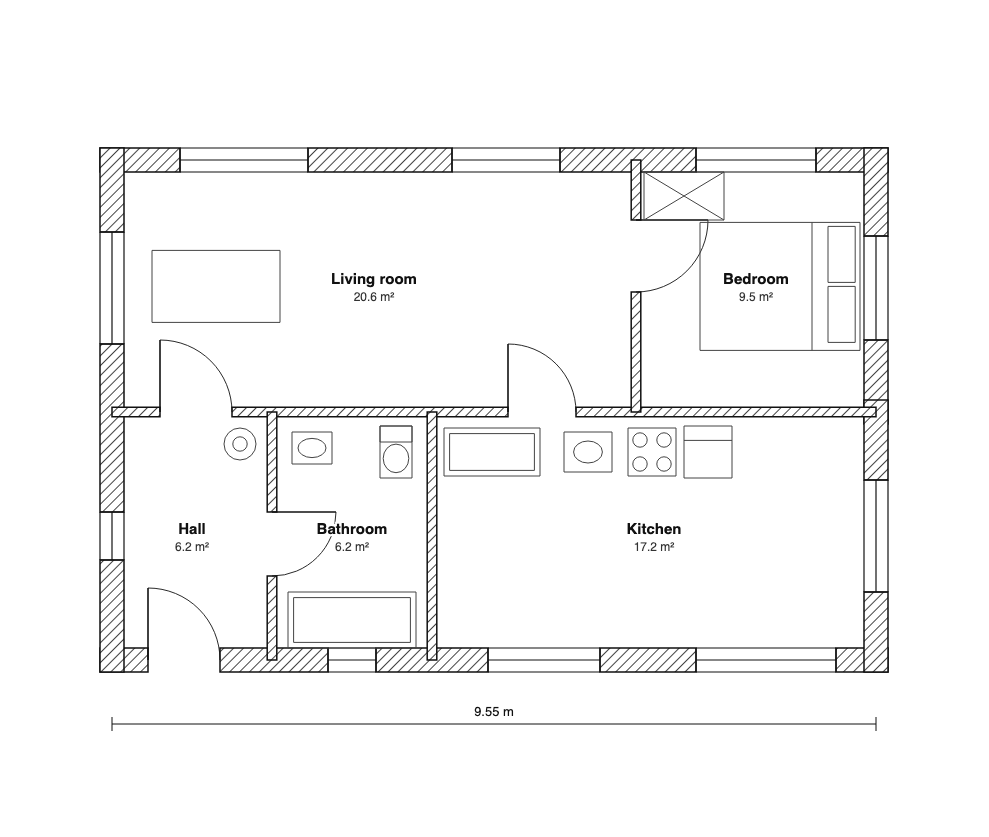
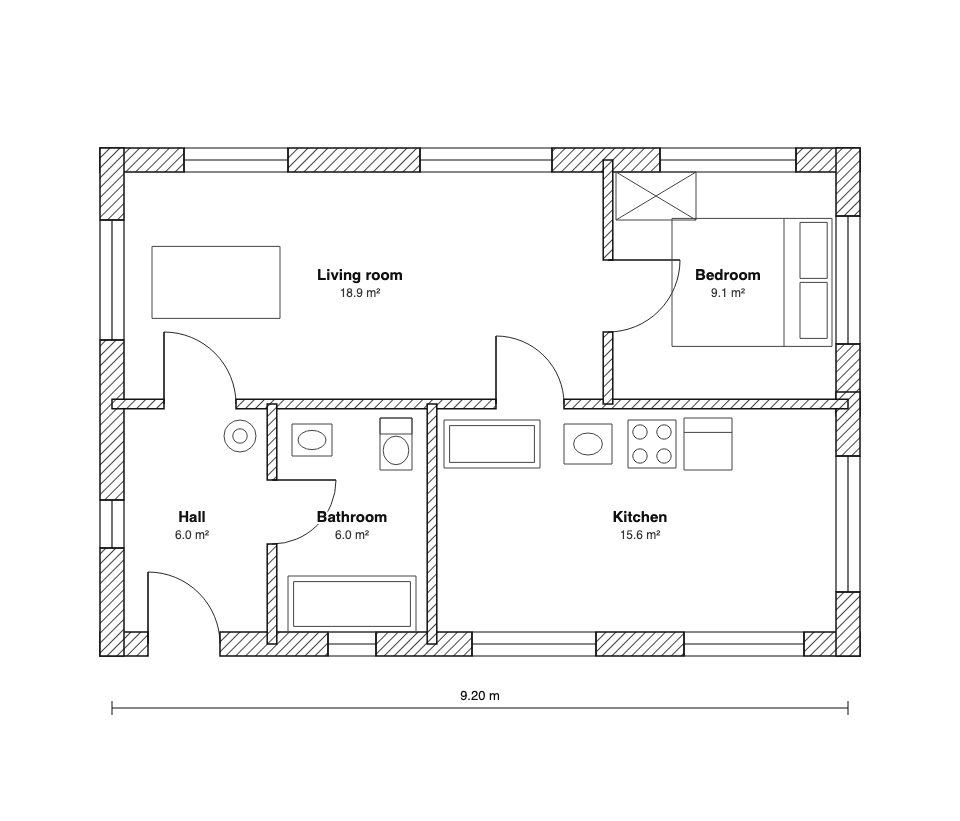
Replace sample-3 with a cleaner hatched drawing and give the first-visit card on a phone 12 px or more to spare in both languages

Changed region(s): [[0.0938, 0.1523, 0.9062, 0.8831], [0.625, 0.609, 0.6875, 0.6699], [0.3438, 0.3045, 0.4062, 0.3654]]

diff --git a/viewer/src/first-visit.js b/viewer/src/first-visit.js
@@ -17,7 +17,7 @@ export const STRINGS = {
     step1: 'Copy the prompt',
     step2: 'Give it to an AI chat together with a picture of your floor plan',
     step3: 'Paste the answer here',
-    samples: 'No floor plan at hand? Try a sample drawing:',
+    samples: 'No floor plan at hand? Try a sample:',
     sampleLink: 'Sample drawing {n}',
     copy: 'Copy prompt', copied: 'Copied', copyFailed: 'Could not copy',
     copiedNext: 'Copied. Now open an AI chat, add the picture of your floor plan and paste the prompt.',
@@ -33,7 +33,7 @@ export const STRINGS = {
     step1: 'Skopiuj polecenie dla AI (prompt)',
     step2: 'Otwórz czat z AI, który przyjmuje zdjęcia, dodaj zdjęcie rzutu (zwykle przyciskiem ze spinaczem albo plusem) i wklej polecenie',
     step3: 'Wróć tutaj i wklej odpowiedź AI (wystarczy cały tekst)',
-    samples: 'Nie masz rzutu pod ręką? Wypróbuj przykładowy rysunek:',
+    samples: 'Nie masz rzutu pod ręką? Przykłady:',
     sampleLink: 'Przykładowy rysunek {n}',
     copy: 'Kopiuj polecenie', copied: 'Skopiowano', copyFailed: 'Nie udało się skopiować',
     copiedNext: 'Skopiowano. Teraz otwórz czat z AI, dodaj zdjęcie rzutu i wklej polecenie.',

diff --git a/eval/results/2026-10-24-samples/README.md b/eval/results/2026-10-24-samples/README.md
@@ -9,11 +9,13 @@ against the generator's truth (the truth stays out of the repository; the seed r
 | --- | --- | --- | --- | --- | --- | ---: |
[4 lines of base64/hex data omitted]
 
-`scores.md` is the output of `eval/report.mjs`, `readings-samples/<code>.plan.json` are the extracted readings (the folder is not called `readings` because tests/eval/loads.test.mjs scores every `readings` folder against the benchmark of seeds 401 to 408).
+`scores.md` is the output of `eval/report.mjs` for the three shipped pictures, `readings-samples/<code>.plan.json` are the extracted readings (the folder is not called `readings` because tests/eval/loads.test.mjs scores every `readings` folder against the benchmark of seeds 401 to 408).
 
 ## How the pictures were made and chosen
+
+First round (sample-1, sample-2 and a first sample-3, seed 604):
 
 ```
 node eval/make-benchmark.mjs --seed 601 --count 6 --out <dir> --styles cad,hatched     (seeds 601 to 606)
@@ -23,12 +25,33 @@ node eval/make-benchmark.mjs --seed 607 --count 6 --out <dir> --styles cad,hatch
 The seeds are outside the ranges of the benchmark runs (401 to 412, 501 to 504). Eleven of the twelve pictures were looked at (seed 609,
 a two-level house, was not). Five were set aside before any reading because a label sits on a furniture outline or a door swing crosses
 furniture (seeds 602, 606, 608, 610, 612), and one (seed 611) because the swing of the bathroom door touches the label. Five were read:
-the three shipped ones and two that are not shipped, seed 603 (cad, studio) with 94.0 and seed 601 (cad, balcony) with 91.2 (in both the
-swing of the bathroom door touches the label). The three shipped ones are the ones that read best and look like different flats.
-So the three composites are the best of a small set. They show that the loop works on these pictures, not how a model reads a typical
-drawing; the measured numbers are in `docs/BENCHMARK.md`.
+sample-1 (seed 605), sample-2 (seed 607) and three that are not shipped, seed 604 (hatched, one-bedroom, 96.3), seed 603 (cad, studio) with
+94.0 and seed 601 (cad, balcony) with 91.2. In all three of these the swing of the bathroom door touches the label. Sample-1 and sample-2
+are the two that read best of those five.
 
-In sample-3.png the swing of the bathroom door touches the first letters of the label "Bathroom"; the reading is not affected.
+Second round (a cleaner sample-3, hatched walls, seeds from 613 on). Seed 604 was taken out because the swing of its bathroom door touches
+the label "Bathroom":
+
+```
+node eval/make-benchmark.mjs --seed 613 --count 8 --out <dir> --styles hatched          (seeds 613 to 620)
+node eval/make-benchmark.mjs --seed <s> --count 1 --out <dir> --styles hatched          (once for each s = 622, 624, 625, 631, 632, 638, 639, 646, 653, 660)
+```
+
+The family repeats every seventh seed in this range (613 three-bedroom, 614 l-shaped, 615 balcony, 616 two-level house, 617 studio,
+618 one-bedroom, 619 two-bedroom, 620 three-bedroom, and 624 studio, 625, 632 and 639 one-bedroom, 631 studio), so the seeds of
+families other than those of sample-1 and sample-2 could be aimed at. Eighteen pictures were made and eleven looked at; seven were not
+(614 and 619 repeat the families of sample-2 and sample-1; 622, 638, 646, 653 and 660 were made in the same batch and not looked at
+once seed 632 was found to be good). Of the eleven, ten were set
+aside before any reading, each because a label sits on or touches a furniture outline (the coffee table in the middle of the living room
+or studio in 613, 615, 617, 618, 620 and 639, the stairs and the table in the two-level house 616) or because the swing of the bathroom
+door touches the label "Bathroom" or crosses the bath (613, 620, 624, 625, 631). Seed 632 was chosen by looking, before any reading,
+and read once: composite 99, 5 of 5 rooms, 0 validator errors and warnings. It is the only one of the second round that was read, so
+the reading was not chosen by its score. In sample-3.png no label touches a line; the swing of the bedroom door crosses the left edge of
+the bed outline, and the label "Bedroom" sits inside the outline of the bed.
+
+The three composites are not a measure of quality: sample-1 and sample-2 are the best of five readings and sample-3 is one reading of
+a picture picked by eye. They show that the loop works on these pictures, not how a model reads a typical drawing; the measured numbers
+are in `docs/BENCHMARK.md`. The earlier sample-3 (seed 604) is no longer shipped and its reading is not kept.
 
 ## How a reading was made
 
@@ -42,4 +65,5 @@ claude -p --model claude-sonnet-5-5 --system-prompt 'You are a careful assistant
 $(cat docs/PROMPT.md)"
 ```
 
-The `result` field of the JSON is the answer. Cost: about 0.04 to 0.05 USD and 23 to 31 seconds per reading.
+The `result` field of the JSON is the answer. Cost: about 0.04 to 0.06 USD and 23 to 34 seconds per reading. Six readings were made in
+all: five in the first round and one (sample-3, 33 seconds, 0.056 USD) in the second.

diff --git a/docs/samples/README.md b/docs/samples/README.md
@@ -3,11 +3,11 @@
 Three floor plan pictures to try planwalk when you have no plan at hand. Open the viewer, copy the prompt, give one of these pictures
 and the prompt to an AI chat that reads images, and paste the answer back (the same three steps as for your own plan).
 
-| file | what it shows |
-| --- | --- |
-| `sample-1.png` | a two-bedroom flat with a corridor, solid walls |
-| `sample-2.png` | an L-shaped flat, solid walls |
-| `sample-3.png` | a one-bedroom flat with fixtures, hatched walls |
+| file | what it shows | generator seed |
+| --- | --- | ---: |
+| `sample-1.png` | a two-bedroom flat with a corridor, solid walls | 605 |
+| `sample-2.png` | an L-shaped flat, solid walls | 607 |
+| `sample-3.png` | a one-bedroom flat with fixtures, hatched walls | 632 |
 
 They are synthetic: drawn by the generator in [`eval/`](../../eval) from numbers, not copied from any real plan, and released under
 CC0 (public domain). They were picked because a model read them well in one try, so they are not a measure of quality. They show the

diff --git a/eval/results/2026-10-24-samples/scores.md b/eval/results/2026-10-24-samples/scores.md
@@ -2,7 +2,7 @@
 | --- | --- | --- | ---: | ---: | ---: | ---: | ---: | ---: | ---: | --- | ---: |
 | pd63f | cad | two-bedroom | 98.2 | 7/7 | 100 | 100 | 0.4 | 97 | 92 | yes | 0.1 |
 | pd965 | cad | l-shaped | 97.7 | 6/6 | 100 | 100 | 0.1 | 97 | 89 | yes | 0 |
-| pd4ac | hatched | one-bedroom | 96.3 | 5/5 | 100 | 97 | 0.3 | 80 | 100 | yes | 0 |
+| p7321 | hatched | one-bedroom | 99 | 5/5 | 100 | 100 | 0 | 93 | 100 | yes | 0 |
 
-Mean composite 97.4 / 100 over 3 plans in 2 styles (min 96.3, max 98.2). Per style: cad 98 (n=2), hatched 96.3 (n=1).
-Means over plans: room F1 100, mean IoU 98.8, openings F1 91.1, connectivity F1 93.7 (all in percent).
+Mean composite 98.3 / 100 over 3 plans in 2 styles (min 97.7, max 99). Per style: cad 98 (n=2), hatched 99 (n=1).
+Means over plans: room F1 100, mean IoU 99.9, openings F1 95.6, connectivity F1 93.7 (all in percent).
